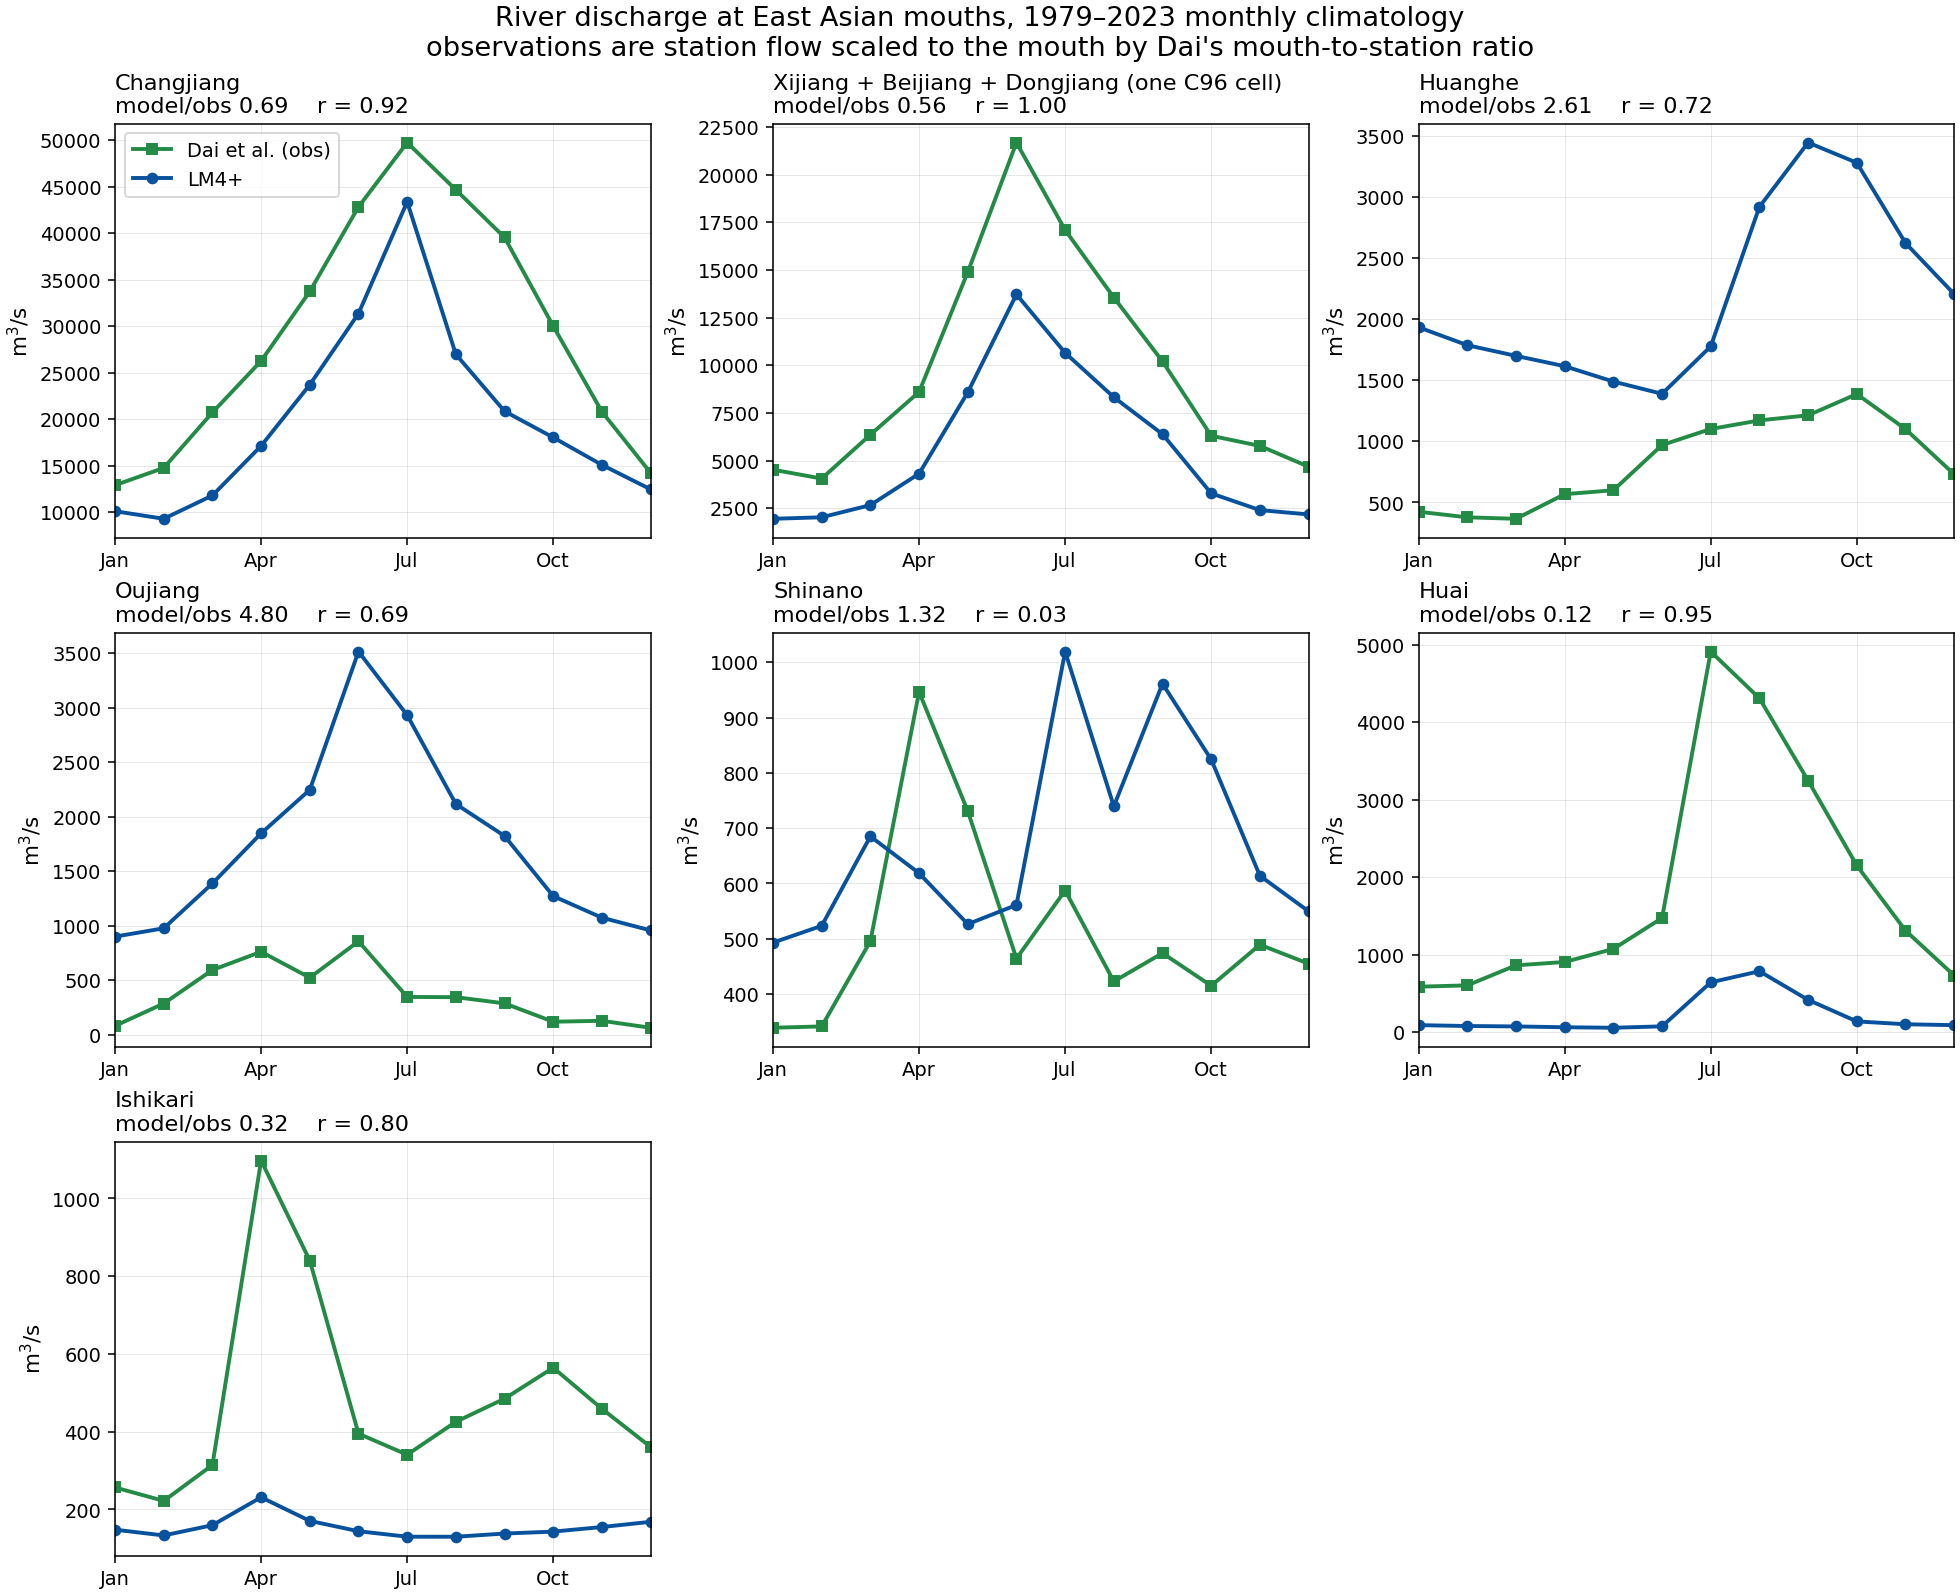
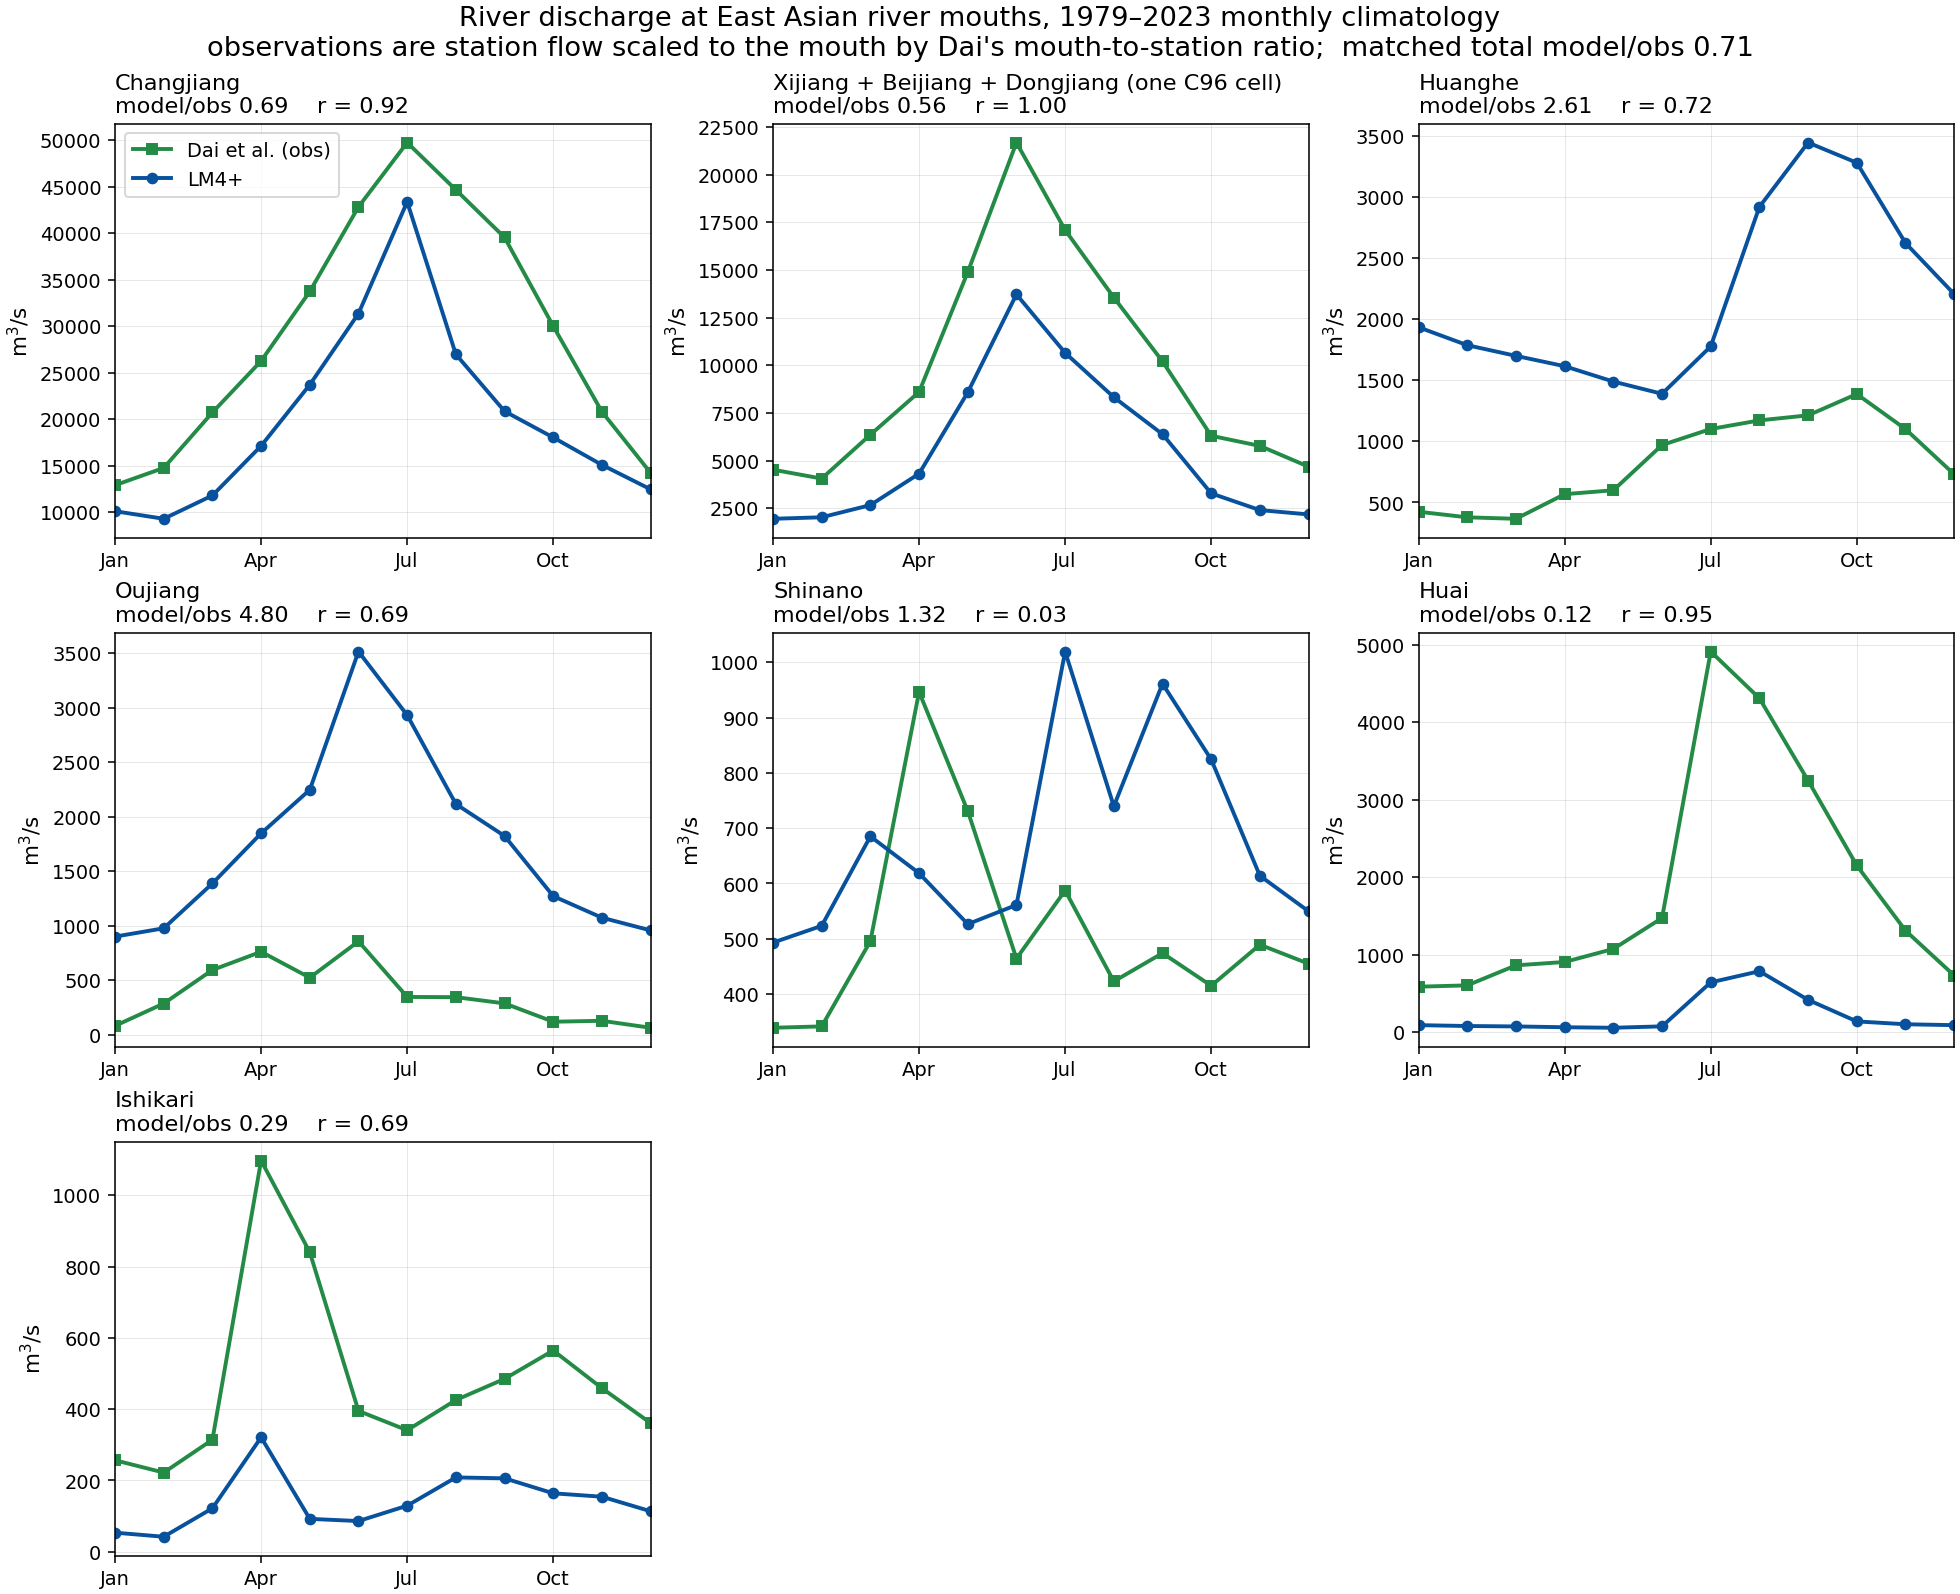
Extend the discharge diagnosis to Arctic-draining rivers
The Arctic is where the freshwater budget of an ocean model is most sensitive to
what the land sends it, and Dai carries seventy rivers draining there. Selecting
them by the ocean they empty into rather than by a longitude box matters: the
Siberian basins wrap the pole, and a box cuts them in half.

Two results, and they point in different directions.

The totals are good and they agree with something found another way. Ten matched
systems deliver 2169 km3/yr against an observed 2442, a ratio of 0.89, where the
same model against the same observations in East Asia gives 0.71. That ranking
already appeared in the G-RUN comparison, where 60-90N was the best-matched
latitude band at -12.5 %; gridded runoff and river-mouth flow are independent
routes to it. The Yenisey comes out at 1.01 with a seasonal correlation of 0.99.

The phase is systematically wrong in a way the totals hide. The Yenisey, Ob,
Kolyma, Yana, Olenek and Mackenzie all peak in May in the model and in June in
the observations, and the recession after the peak is too fast -- the Mackenzie,
Lena and Kolyma all fall well below observed from July onward. Snowmelt leaves in
one go and summer flow is not sustained. That is the same statement as the
high-latitude soil temperature result, 5 K too cold at depth with an annual
amplitude 66 % too large: freeze and thaw arriving early and hard would produce
exactly this hydrograph.

The matching rule had to change to get here. Scaling the search radius by flow
[…]

diff --git a/lm4/scripts/discharge_vs_dai.py b/lm4/scripts/discharge_vs_dai.py
@@ -36,14 +36,35 @@ import numpy as np
 import netCDF4 as nc
 import matplotlib.pyplot as plt
 
+import sys
+
 DAI = ("/Volumes/data02/runoff/Dai2025/"
        "coastal-stns-Vol-monthly.updated-Aug2025.nc")
 NPZ = "lm4/data/discharge_1979_2023.npz"
 Y0, Y1 = 1979, 2023
-SEARCH_DEG = 2.0           # radius of the mouth search, degrees
-MAX_DIST = 1.75            # beyond this the match is not the same river;
-                           # a C96 cell is ~1 deg, so this allows the channel to
-                           # sit a cell or so from the gauge's mouth coordinate
+
+# region: (name, lat range, lon range or None, ocean-name prefix or None, n rivers)
+REGIONS = {
+    "eastasia": ("East Asian", (20, 46), (100, 145), None, 10),
+    "arctic":   ("Arctic-draining", (55, 82), None, "ARC", 12),
+}
+WHICH = sys.argv[1] if len(sys.argv) > 1 else "eastasia"
+RNAME, RLAT, RLON, ROCN, NRIV = REGIONS[WHICH]
+# The search radius scales with the river, because the displacement between a
+# gauge's mouth coordinate and the model's outlet cell does.  The Gulf of Ob is
+# 800 km long and the model puts the Ob's outlet at its head, 3.4 deg from where
+# Dai places the mouth; the Huai, two orders of magnitude smaller, sits 0.4 deg
+# from its own channel and must not be allowed to wander as far as the Yangtze.
+# Scaled by drainage area rather than by flow: an estuary's size follows the
+# basin, not how much water people have left in the river.  Scaling by flow
+# would penalise the Yellow River, whose observed volume is a third of natural
+# because of irrigation withdrawal, and push its match out of reach.
+def search_radius(area_km2):
+    return 1.0 + 3.0 * min(1.0, area_km2 / 2.5e6)
+
+
+MIN_FLOW = 50.0            # m3/s; a match onto a cell with less than this is a
+                           # failed match, not a river
 
 # ------------------------------------------------------------------ model ---
 z = np.load(NPZ)
@@ -70,11 +91,13 @@ def txt(var, i):
 n = len(d.dimensions["station"])
 riv = [txt("riv_name", i) for i in range(n)]
 stn = [txt("stn_name", i) for i in range(n)]
+ocn = [txt("ocn_name", i) for i in range(n)]
 lat_m = np.array(d.variables["lat_mou"][:])
 lon_m = np.array(d.variables["lon_mou"][:])
 lon_m = np.where(lon_m > 180, lon_m - 360, lon_m)
 ratio = np.array(d.variables["ratio_m2s"][:])
 vol = np.array(d.variables["vol_stn"][:])
+area_mou = np.array(d.variables["area_mou"][:])
 tt = np.array(d.variables["time"][:]).astype(int)     # YYYYMM
 flow = np.ma.filled(d.variables["FLOW"][:].astype("f8"), np.nan)   # (time,station)
 d.close()
@@ -82,9 +105,16 @@ d.close()
 oyr, omo = tt // 100, tt % 100
 osel = (oyr >= Y0) & (oyr <= Y1)
 
-# East Asian mouths, largest first
-ea = np.where((lat_m >= 20) & (lat_m <= 46) & (lon_m >= 100) & (lon_m <= 145))[0]
-ea = ea[np.argsort(-vol[ea])][:10]
+# the region's mouths, largest first.  The Arctic is selected by the ocean the
+# river drains into rather than by a longitude box, because its basins wrap the
+# pole and a box would cut Siberia in half.
+ok = (lat_m >= RLAT[0]) & (lat_m <= RLAT[1])
+if RLON is not None:
+    ok &= (lon_m >= RLON[0]) & (lon_m <= RLON[1])
+if ROCN is not None:
+    ok &= np.array([o.upper().startswith(ROCN) for o in ocn])
+ea = np.where(ok)[0]
+ea = ea[np.argsort(-vol[ea])][:NRIV]
 
 # --- first pass: find each gauge's model cell -------------------------------
 match = {}
@@ -93,22 +123,23 @@ for i in ea:
     if m.sum() < 60:                              # fewer than five years
         print("skip %-14s observations too short (%d months)" % (riv[i][:12], m.sum()))
         continue
+    rad = search_radius(area_mou[i])
     dist = np.sqrt(((mlat - lat_m[i]) * 1.0) ** 2 +
                    ((mlon - lon_m[i]) * np.cos(np.deg2rad(lat_m[i]))) ** 2)
-    cand = np.where(dist <= SEARCH_DEG, qann, -np.inf)
+    cand = np.where(dist <= rad, qann, -np.inf)
     if not np.isfinite(cand).any():
-        print("skip %-14s no model cell within %.1f deg" % (riv[i][:12], SEARCH_DEG))
+        print("skip %-16s no model cell within %.1f deg" % (riv[i][:14], rad))
         continue
     j = np.unravel_index(np.nanargmax(cand), cand.shape)
-    if dist[j] > MAX_DIST:
-        print("skip %-14s nearest channel is %.2f deg away, not the same river"
-              % (riv[i][:12], dist[j]))
+    if not np.isfinite(qann[j]) or qann[j] < MIN_FLOW:
+        print("skip %-16s no channel within %.1f deg (largest %.0f m3/s)"
+              % (riv[i][:14], rad, qann[j] if np.isfinite(qann[j]) else 0.0))
         continue
     o_clim = np.array([np.nanmean(flow[m & (omo == k + 1), i]) for k in range(12)])
     match.setdefault(j, []).append((i, o_clim * ratio[i], dist[j]))
 
 # --- second pass: gauges sharing a cell are one system ----------------------
-print("\nDai et al. (2025) vs LM4+, %d-%d\n" % (Y0, Y1))
+print("\n%s rivers — Dai et al. (2025) vs LM4+, %d-%d\n" % (RNAME, Y0, Y1))
 print("%-30s %6s %10s %10s %8s %7s" %
       ("river (system)", "dist", "obs m3/s", "model", "model/obs", "r_seas"))
 rows, series = [], []
@@ -126,7 +157,7 @@ for j, members in sorted(match.items(), key=lambda kv: -qann[kv[0]]):
     rows.append([name, len(members), dmin, o_ann, m_ann, m_ann / o_ann, r])
     series.append((tag, o_clim, m_clim, o_ann, m_ann, r))
 
-with open("lm4/data/discharge_vs_dai.csv", "w") as fh:
+with open("lm4/data/discharge_vs_dai_%s.csv" % WHICH, "w") as fh:
     fh.write("river,station,lat_mouth,lon_mouth,dist_deg,obs_m3s,model_m3s,ratio,r_season\n")
     for r_ in rows:
         fh.write("%s,%d,%.3f,%.2f,%.2f,%.4f,%.4f\n" % tuple(r_))
@@ -149,8 +180,17 @@ for ax, (name, o, m, oa, ma, r) in zip(axes.ravel(), series):
 for ax in axes.ravel()[len(series):]:
     ax.axis("off")
 axes[0, 0].legend(fontsize=10)
-fig.suptitle("River discharge at East Asian mouths, %d–%d monthly climatology\n"
+# the sum over the matched systems, which for the Arctic is the freshwater the
+# ocean model would receive from the rivers that dominate its budget
+tot_o = np.sum([oa for _, _, _, oa, _, _ in series])
+tot_m = np.sum([ma for _, _, _, _, ma, _ in series])
+print("\nsum of matched systems:  obs %.0f   model %.0f   model/obs %.2f  m3/s"
+      % (tot_o, tot_m, tot_m / tot_o))
+print("  = %.0f vs %.0f km3/yr" % (tot_o * 3.15576e7 / 1e9, tot_m * 3.15576e7 / 1e9))
+
+fig.suptitle("River discharge at %s river mouths, %d–%d monthly climatology\n"
              "observations are station flow scaled to the mouth by Dai's "
-             "mouth-to-station ratio" % (Y0, Y1), fontsize=14)
-fig.savefig("figures/discharge_vs_dai_eastasia.png", dpi=140)
-print("\nwrote figures/discharge_vs_dai_eastasia.png")
+             "mouth-to-station ratio;  matched total model/obs %.2f"
+             % (RNAME, Y0, Y1, tot_m / tot_o), fontsize=14)
+fig.savefig("figures/discharge_vs_dai_%s.png" % WHICH, dpi=140)
+print("wrote figures/discharge_vs_dai_%s.png" % WHICH)

diff --git a/lm4/LM4_SPINUP_NOTES.md b/lm4/LM4_SPINUP_NOTES.md
@@ -1325,3 +1325,44 @@ discharge2ocean (river.F90:595) → /cellarea (624) → **dis_liq** (682)
 성분별 진단(`id_lrunfs`·`id_lrunfg`·`lrunf_if` 등)은 **소스에 등록돼 있으나 diag_table에 없다.**
 현재 출력에서 얻을 수 있는 분해: `mrro − mrros` = 기저+수치, `runf − mrro` = 중간+활동층+지하수+적설경로.
 완전 분리하려면 diag_table 추가 후 1개월 시험적분(약 1시간) 필요.
+
+### 13.58 ★★★★ 북극 하천 하구 유량 — 총량은 맞고 융설 위상이 이르다 (2026-09-08)
+
+Dai 자료의 **북극해 유입 70개 하천** 중 상위 10개 계를 §13.55와 같은 방식으로 비교.
+지역 선택은 경도 박스가 아니라 **유입 해역(`ocn_name` = ARC)** 으로 했다 — 시베리아 유역이
+극을 감싸고 있어 경도로 자르면 반토막 난다.
+
+| 하천(계) | 관측 m³/s | 모델 | 모델/관측 | r(계절) |
+|---|---|---|---|---|
+| **예니세이** | 19,796 | 20,064 | **1.01** | **0.99** |
+| 오브+푸르 | 14,432 | 16,251 | 1.13 | 0.55 |
+| 레나 | 17,623 | 11,616 | 0.66 | 0.83 |
+| 매켄지 | 9,112 | 5,478 | 0.60 | 0.64 |
+| 페초라 | 5,018 | 4,654 | 0.93 | 0.86 |
+| 북드비나 | 3,479 | 3,198 | 0.92 | 0.84 |
+| 콜리마 | 3,915 | 2,832 | 0.72 | 0.52 |
+| 인디기르카 | 1,595 | 2,494 | 1.56 | 0.86 |
+| 올레뇨크 | 1,268 | 1,296 | 1.02 | 0.73 |
+| 야나 | 1,148 | 854 | 0.74 | 0.17 |
+
+**★ 총량 대비: 북극 0.89 (2,442 → 2,169 km³/yr) vs 동아시아 0.71 (1,358 → 963).**
+G-RUN 위도밴드에서 60–90N이 −12.5 %로 전 밴드 중 최선이었던 것과 **독립적인 방식으로 일치**한다.
+격자 유출과 하구 유량이 같은 결론을 준다는 점에서 신뢰도가 높다.
+
+**★ 계통적 위상 오류 — 융설 첨두가 한 달 이르고 감수가 너무 빠르다.**
+예니세이·오브·콜리마·야나·올레뇨크·매켄지 모두 **모델 5월 / 관측 6월** 첨두. 첨두 뒤
+7월부터 관측보다 훨씬 낮게 떨어진다(매켄지·레나·콜리마). 융설이 한꺼번에 빠져나가고
+여름 유출이 유지되지 않는다.
+→ **고위도 심층토양 한랭편차(−5 K)·계절진폭 과대(+66 %)와 같은 이야기일 가능성**:
+동결·융해가 이르고 급격하면 융설 첨두도 이르고 감수도 빠르다. 다음 진단 대상.
+
+**매칭 규칙 보완 — 탐색 반경은 유량이 아니라 유역면적에 비례시킬 것.**
+```
+radius_deg = 1.0 + 3.0 * min(1, area_mou / 2.5e6)
+```
+- 처음에 유량 기준으로 했더니 **황하가 탈락**했다. 취수로 관측 유량이 자연의 1/3이라
+  반경이 작게 잡혔기 때문. **하구 크기는 유역 규모를 따르지 인간이 남긴 물의 양을 따르지 않는다.**
+- 오브는 만 길이 800 km 탓에 모델 하구가 Dai 좌표에서 **3.50°** 떨어져 있다(모델 69.1N 75.9E vs
+  Dai 66.8N 69.2E). 면적 기준이면 반경 4.0°로 잡혀 정상 매칭되고, 푸르와 같은 격자에 들어가
+  **오브+푸르 하나의 계**로 합산된다.
+- 모델 유량 50 m³/s 미만 격자에 걸린 매칭은 **실패로 간주하고 폐기**(하천이 아닌 격자).
